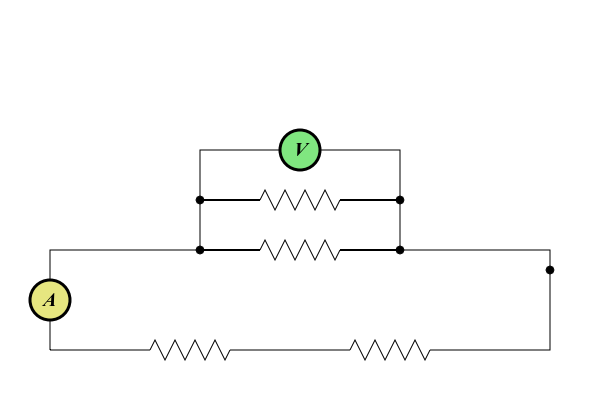
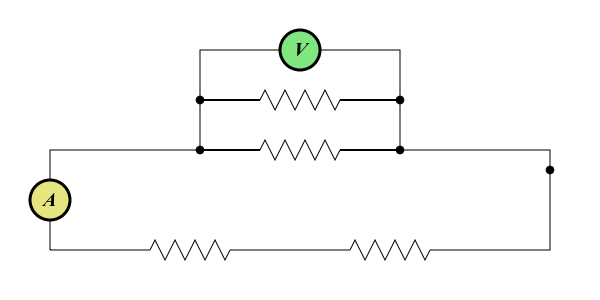
more updates, warn about draw_marker_at_points

diff --git a/docs/source/kiva_tutorial/tutorial_advanced.py b/docs/source/kiva_tutorial/tutorial_advanced.py
@@ -177,6 +177,7 @@ def draw_meter(gc, location, color, text):
         x, y, w, h = gc.get_text_extent(text)
         gc.show_text_at_point(text, -w/2, -h/2)
 
+
 def draw_switch(gc, location, angle):
     """
     Draws a switch at given location.  Assumes location is the connected side
@@ -198,6 +199,7 @@ def draw_switch(gc, location, angle):
         gc.move_to(0, 0)
         gc.line_to(30, 0)
         gc.stroke_path()
+
 
 def draw_battery(gc, location):
     """
@@ -228,7 +230,7 @@ def draw_battery(gc, location):
 
 if __name__ == "__main__":
 
-    gc = GraphicsContext((600, 400))
+    gc = GraphicsContext((600, 300))
 
     # step 1) Draw a skeleton of the circuit
     component_locations = [

diff --git a/docs/source/kiva_tutorial/tutorial.py b/docs/source/kiva_tutorial/tutorial.py
@@ -5,7 +5,7 @@ import numpy as np
 from kiva.api import CAP_ROUND, CIRCLE_MARKER, Font, STROKE
 from kiva.image import GraphicsContext, CompiledPath
 
-gc = GraphicsContext((600, 400))
+gc = GraphicsContext((600, 300))
 
 # step 1) draw wires
 gc.rect(50, 50, 500, 100)

diff --git a/docs/source/kiva_tutorial/tutorial.rst b/docs/source/kiva_tutorial/tutorial.rst
@@ -52,6 +52,15 @@ quite easily using the graphics context's :py:meth:`rect` method.
 
 That was easy. Now, let's draw the dots indicating wire connections. To do
 this, we can use the optimized :py:meth:`draw_marker_at_points` method.
+
+.. note::
+  :py:meth:`draw_marker_at_points` is currently only implemented by the
+  ``kiva.agg`` backend which may soon be deprecated. We can guard against this
+  to make our code backend agnostic, but for the purposes of keeping the
+  tutorial simple we do not do that here. See the
+  :download:`advanced version of the tutorial  <tutorial_advanced.py>` for
+  how to do so.
+
 In this case, with only 5 dots to draw, the speed up is likely negligible.
 However, in scenarios where you need to draw many markers this method can
 provide a significant boost as opposed to just using a for loop.  Here we
@@ -99,17 +108,17 @@ need to draw the text at (-w/2, -h/2).
   :height: 400
 
 As you may have noticed, most of the code for drawing the Ammeter and the
-Voltmeter was effectively the same.  Sometimes it is useful to work with an
+Voltmeter was effectively the same. Sometimes it is useful to work with an
 independent path instance as opposed to specifically messing with the current
 path of the graphics context. This brings us to the notion of CompiledPaths,
 which we will now use to draw the resistors. As you can see the path for each
 resistor will be exactly the same. Rather than moving our coordinate system
 around to each location and redrawing the same path at each location, we will
-instead define the path using a CompiledPath and draw at each of the various
-desired locations using the :py:meth:`draw_path_at_points` method. To do this
-we instantiate a :class:`CompiledPath`, and then define our path just as we
-would with the graphics context's current path. The interface uses the same
-:ref:`kiva_path_functions`. Finally, we can simply call
+instead define the path using a :class:CompiledPath and draw at each of the
+various desired locations using the :py:meth:`draw_path_at_points` method. To
+do this we instantiate a :class:`CompiledPath`, and then define our path just
+as we would with the graphics context's current path. The interface uses the
+same :ref:`kiva_path_functions`. Finally, we can simply call
 :py:meth:`draw_path_at_points` passing in the locations we want to draw the
 path, our compiled path, and the drawing mode.
 
@@ -119,7 +128,10 @@ path, our compiled path, and the drawing mode.
 If you run just this code, you will notice that things don't look quite right,
 as the original lines for the wires still show underneath our resistors. We can
 get rid of these by drawing white lines over the relevant portions of the wire
-before we call the above code.  Explicitly, we can run 
+before we call the above code. Note that this is not the most performant
+approach we could take especially in the context of an interactive application.
+In general we want to strive to touch each pixel as few times as necessary.
+However, in this case to keep the tutorial simple, we can run 
 
 .. literalinclude:: tutorial.py
     :lines: 54-68
@@ -145,7 +157,7 @@ our coordinate system back to as it was before.
   :height: 400
 
 We will leave the drawing of the battery as an exercise for the reader, but the
-full code for the example is available :download:`here <../tutorial.py>`.
+full code for the example is available :download:`here <tutorial.py>`.
 
 
 This tutorial was intended as a ramp up for drawing with kiva. Many of the
@@ -154,5 +166,7 @@ optimizing code, in mind. In pactice, you probably would not want to implement
 drawing in this because it is not as performant as it could be. For example,
 
 Now that you better understand the basics of what
-kiva drawing is all about, please refer to (.......) to see what a more
-"production" level version of code for this drawing might look like. This
+kiva drawing is all about, please refer to the 
+:download:`advanced version of the tutorial  <tutorial_advanced.py>` to
+see what a more "production" level version of code for this drawing might look
+like.
